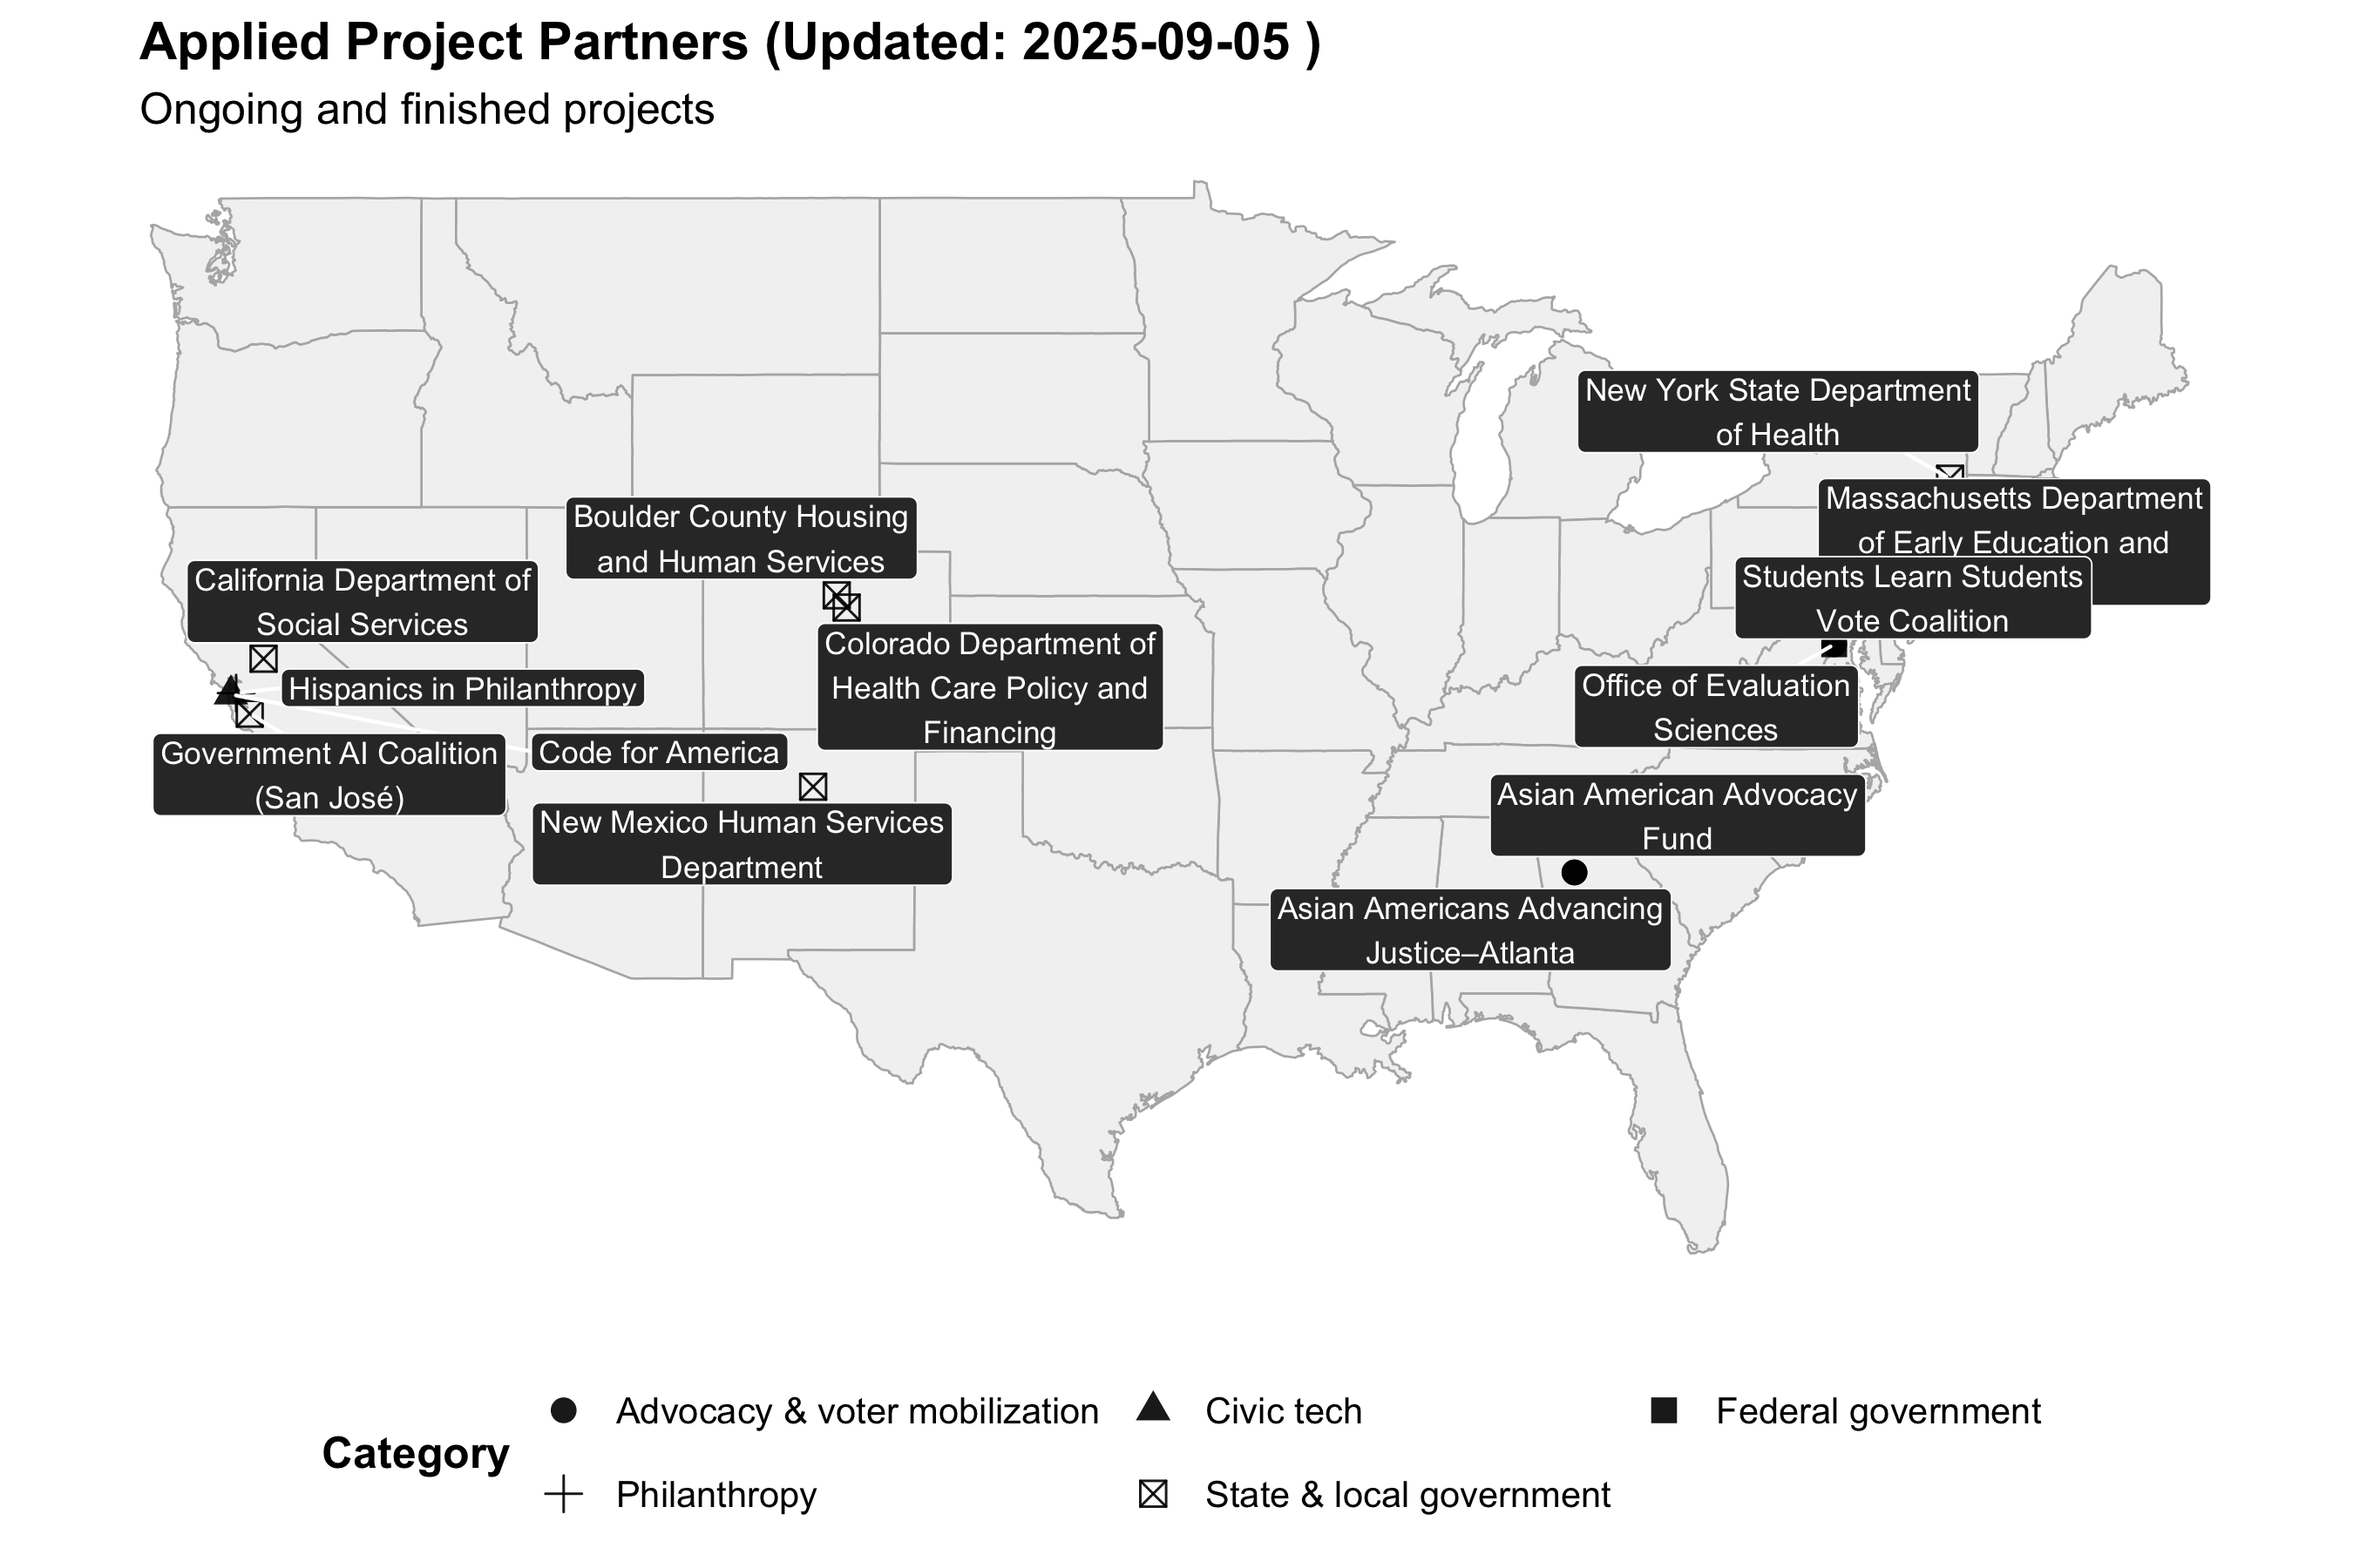
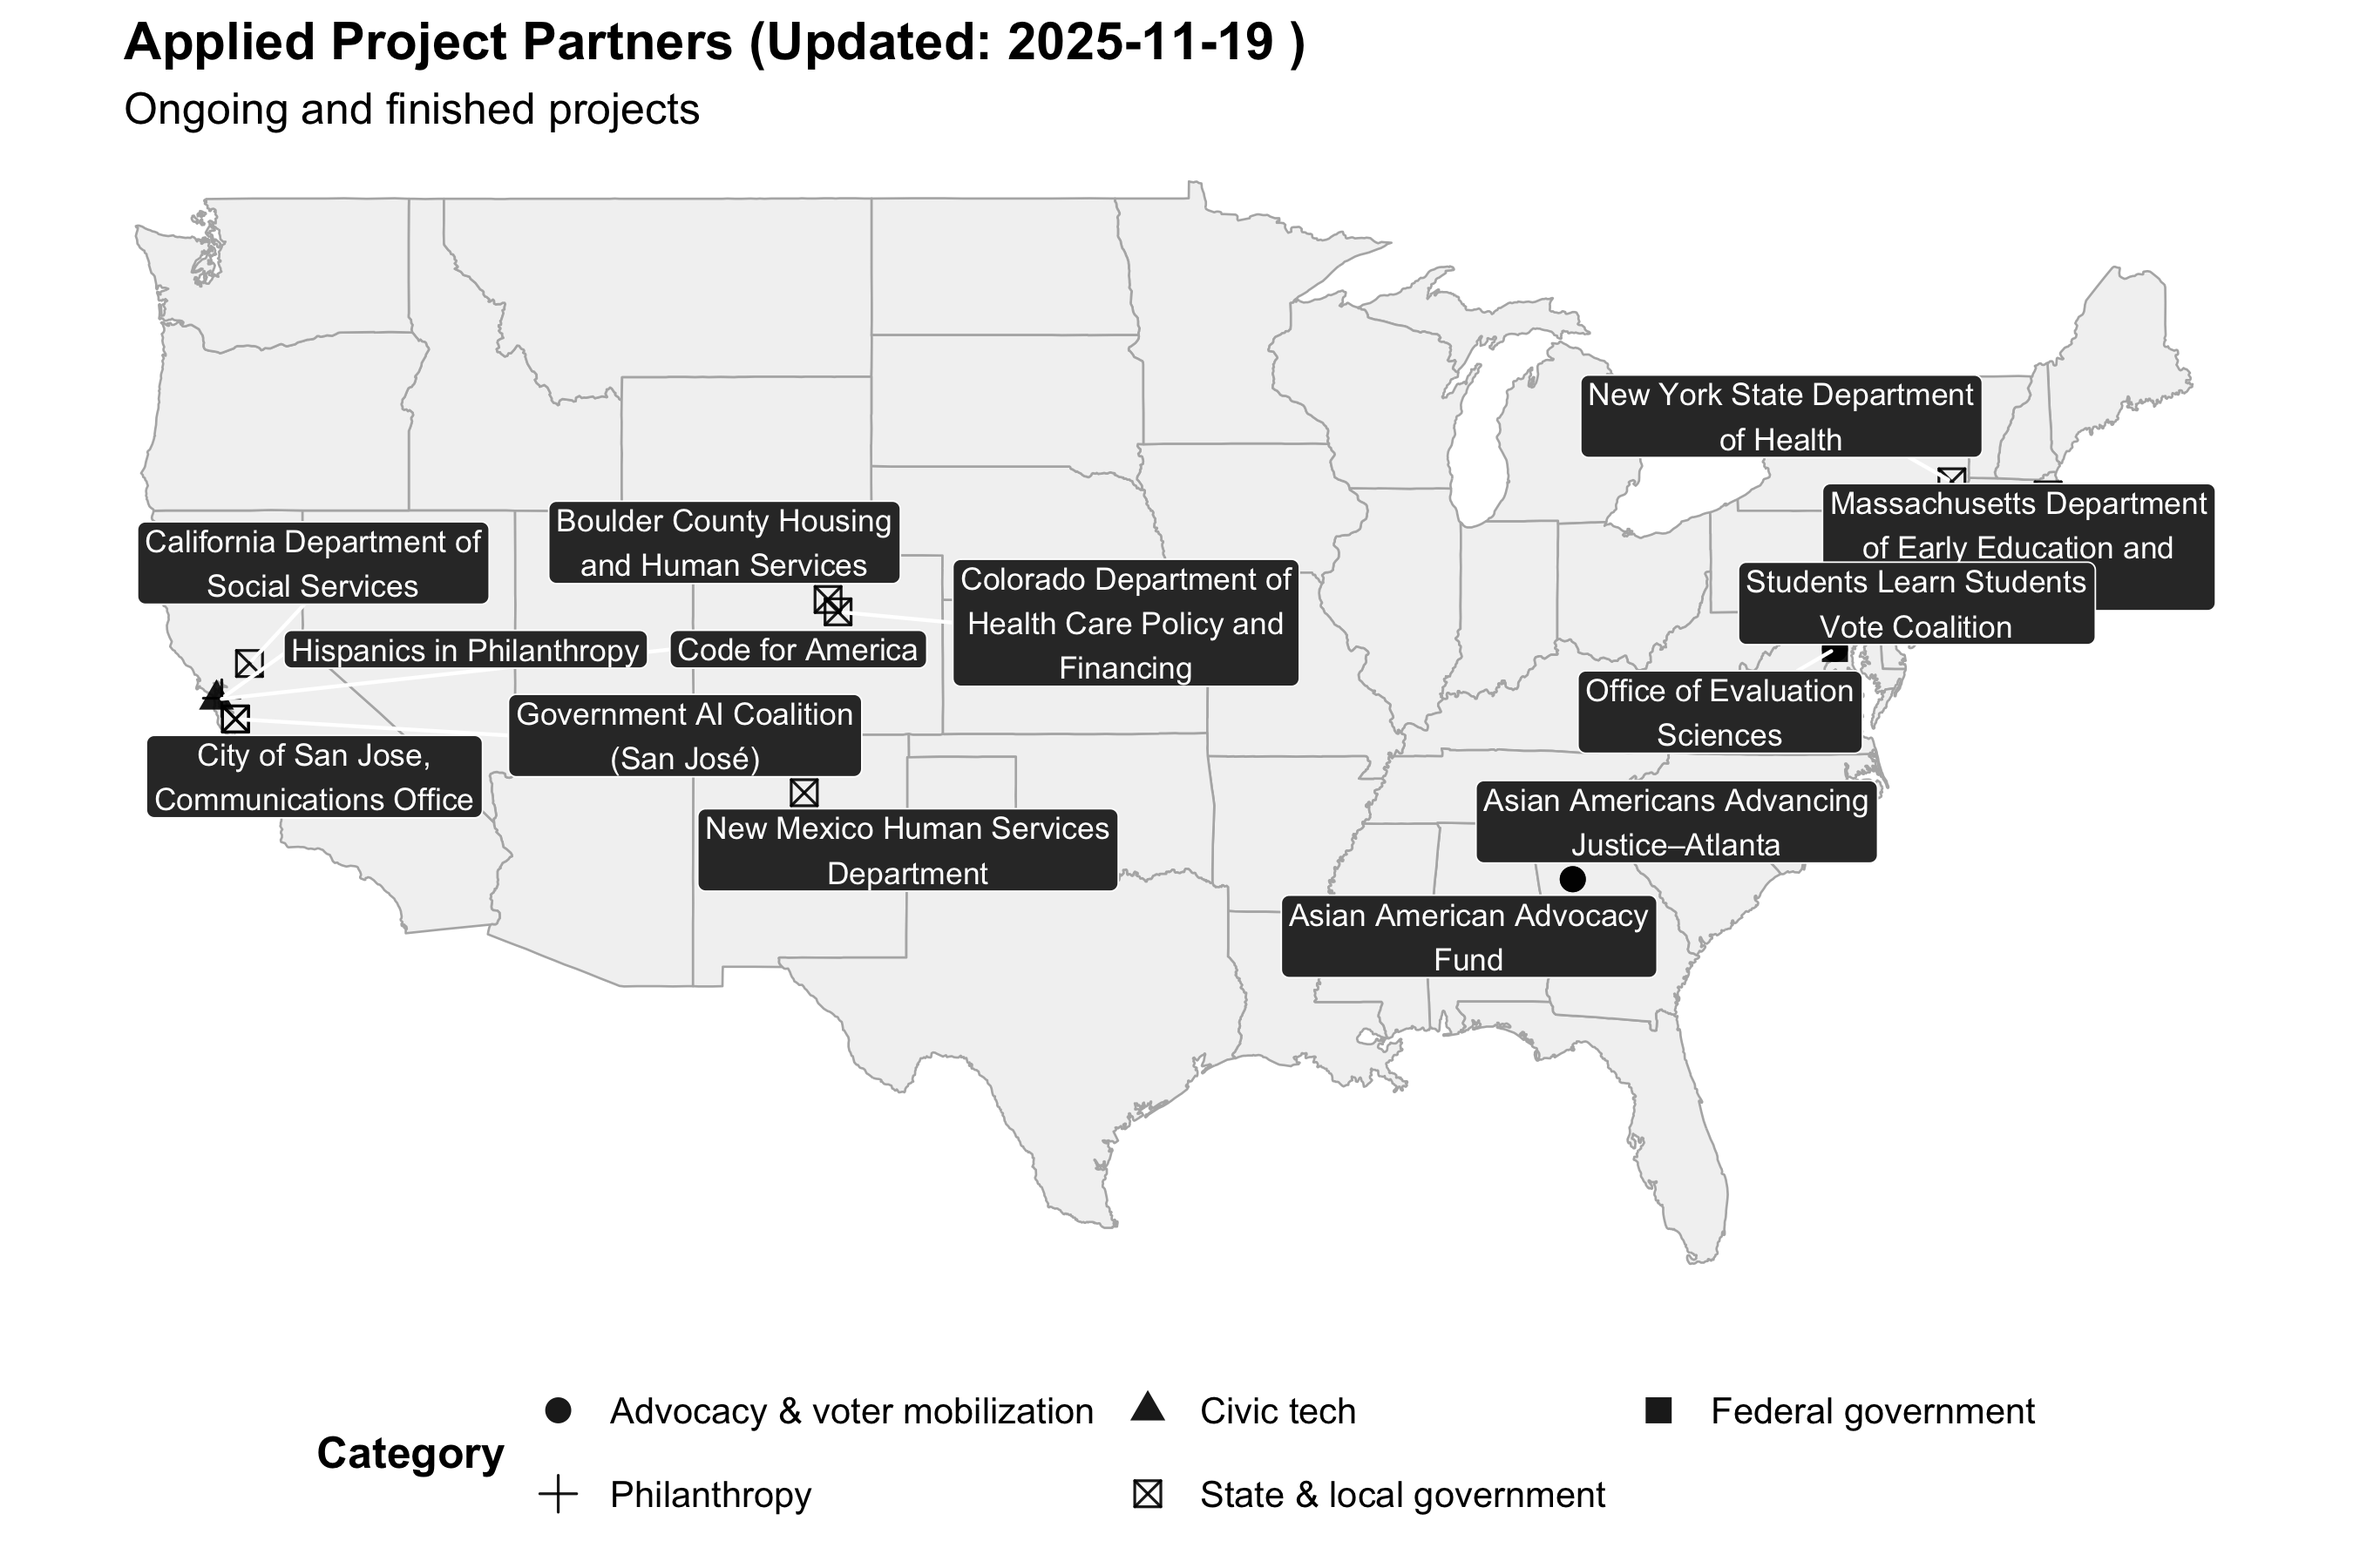
update the partner code

diff --git a/community_building/partners.md b/community_building/partners.md
@@ -12,7 +12,8 @@ The following list includes the partners of ongoing and finished projects.
 
 1. California Department of Social Services (CDSS)
 1. Colorado Department of Health Care Policy and Financing (HCPF)
-1. Boulder County Housing and Human Services
+1. City of San José, Office of Communications
+1. Boulder County, Housing and Human Services
 1. [Government AI Coalition](https://www.sanjoseca.gov/your-government/departments-offices/information-technology/ai-reviews-algorithm-register/govai-coalition)
 1. Massachusetts Department of Early Education and Care (EEC)
 1. New Mexico Human Services Department (NMHSD)
